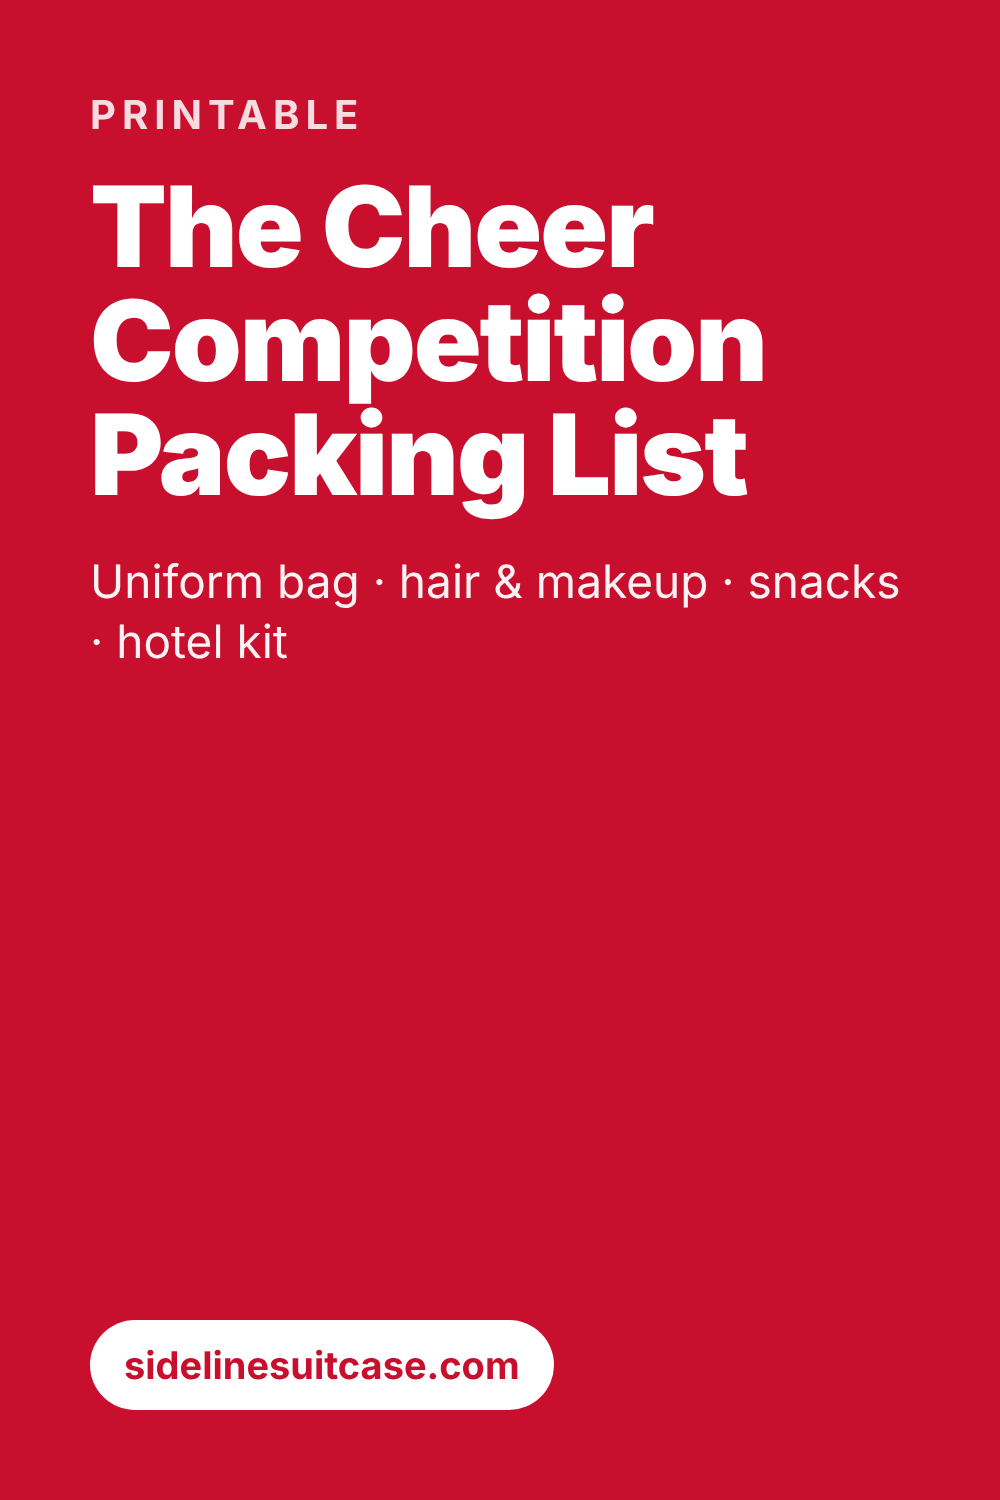
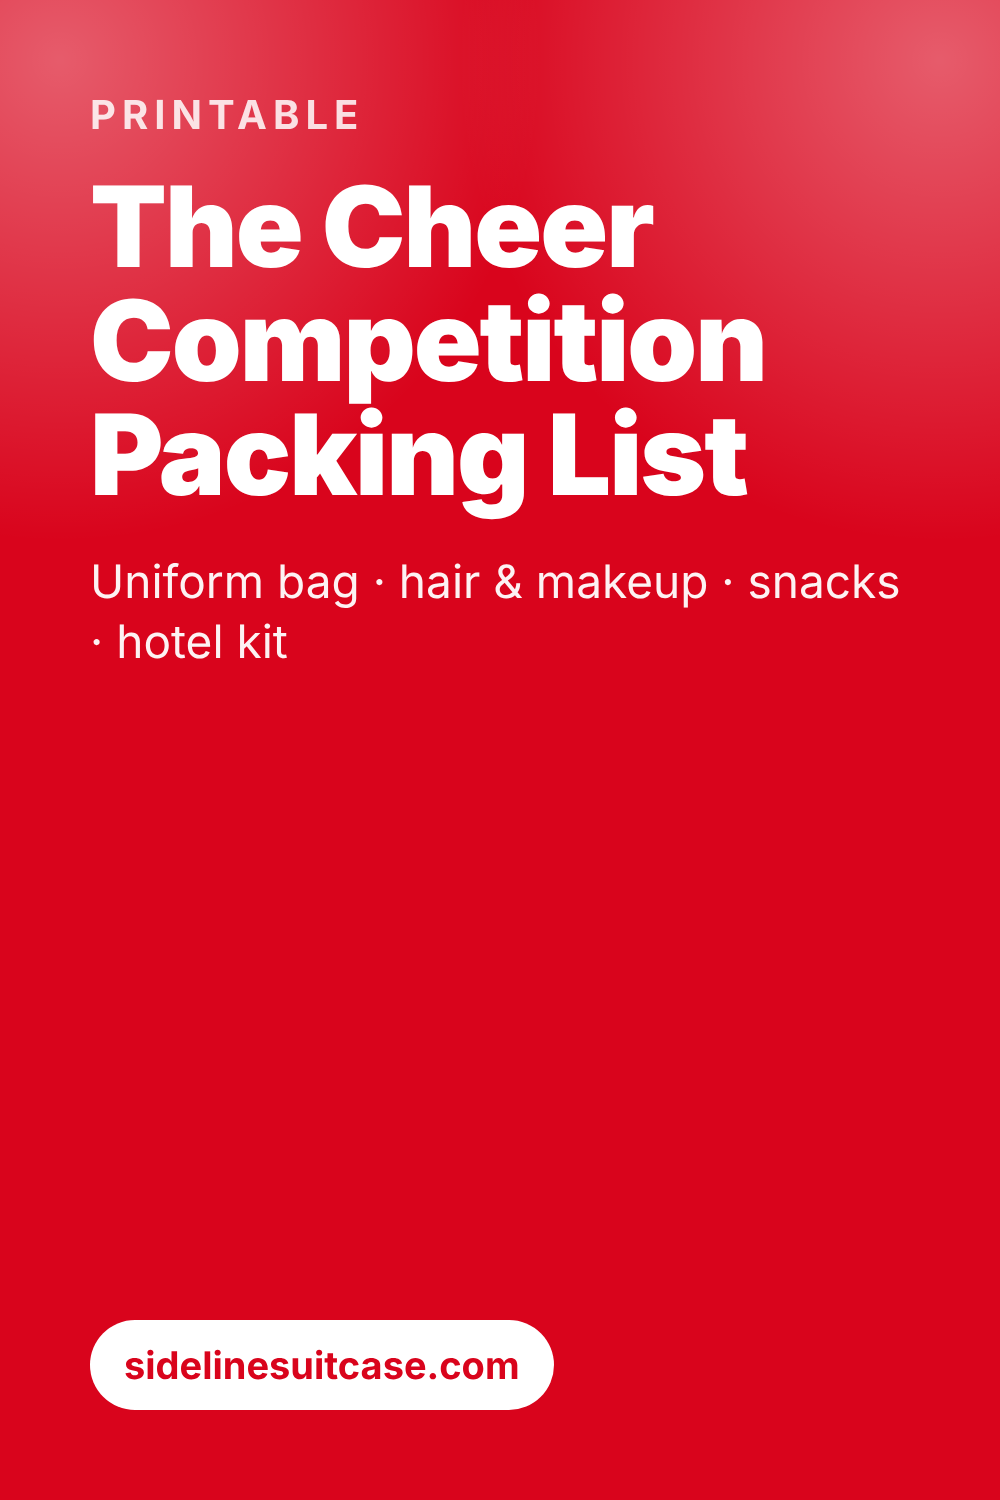
Match site and pin colors to the team uniforms
Uniform red, navy-tinted black, stage-backdrop slate with spotlight glow,
and a crown-gold accent, sampled from the family's cheer photos.

Claude-Session: https://claude.ai/code/session_016pLpUcMFdfAf8sP4RFqGKT

Changed region(s): [[0.651, 0.0, 1.0, 0.2453], [0.0, 0.0, 0.341, 0.2453]]

diff --git a/sideline-suitcase/pins/make-pins.js b/sideline-suitcase/pins/make-pins.js
@@ -2,21 +2,21 @@
 const { chromium } = require('playwright');
 const path = require('path');
 const pins = [
-  { file: 'packing-list', kicker: 'PRINTABLE', title: 'The Cheer Competition Packing List', sub: 'Uniform bag · hair & makeup · snacks · hotel kit', bg: '#c8102e' },
-  { file: 'stay-to-play', kicker: 'SPORTS MOM 101', title: 'Stay-to-Play Hotels, Explained', sub: 'How to book the team block and still earn points', bg: '#111111' },
-  { file: 'free-nights', kicker: 'TRAVEL HACK', title: 'Turn Competition Season Into Free Hotel Nights', sub: 'A no-spreadsheet points system for busy moms', bg: '#c8102e' },
-  { file: 'survival-guide', kicker: 'COMP WEEKEND', title: 'Competition Weekend Survival Guide', sub: 'Timing, parking, food & happy siblings', bg: '#111111' },
-  { file: 'hotel-hacks', kicker: 'SAVE MONEY', title: '5 Hotel Hacks Every Cheer Mom Needs', sub: 'Fridge, free breakfast, steamer, power strip & points', bg: '#c8102e' },
+  { file: 'packing-list', kicker: 'PRINTABLE', title: 'The Cheer Competition Packing List', sub: 'Uniform bag · hair & makeup · snacks · hotel kit', bg: '#d9041c' },
+  { file: 'stay-to-play', kicker: 'SPORTS MOM 101', title: 'Stay-to-Play Hotels, Explained', sub: 'How to book the team block and still earn points', bg: '#0a141a' },
+  { file: 'free-nights', kicker: 'TRAVEL HACK', title: 'Turn Competition Season Into Free Hotel Nights', sub: 'A no-spreadsheet points system for busy moms', bg: '#d9041c' },
+  { file: 'survival-guide', kicker: 'COMP WEEKEND', title: 'Competition Weekend Survival Guide', sub: 'Timing, parking, food & happy siblings', bg: '#0a141a' },
+  { file: 'hotel-hacks', kicker: 'SAVE MONEY', title: '5 Hotel Hacks Every Cheer Mom Needs', sub: 'Fridge, free breakfast, steamer, power strip & points', bg: '#d9041c' },
 ];
 (async () => {
   const browser = await chromium.launch();
   const page = await browser.newPage({ viewport: { width: 1000, height: 1500 } });
   for (const p of pins) {
-    await page.setContent(`<html><body style="margin:0;width:1000px;height:1500px;background:${p.bg};font-family:system-ui,sans-serif;display:flex;flex-direction:column;justify-content:center;padding:90px;box-sizing:border-box;color:#fff">
-      <div style="font-size:40px;letter-spacing:6px;font-weight:700;color:${p.bg === "#111111" ? "#ff3b52" : "rgba(255,255,255,.85)"}">${p.kicker}</div>
+    await page.setContent(`<html><body style="margin:0;width:1000px;height:1500px;background:radial-gradient(circle at 6% 4%,rgba(255,255,255,.35),transparent 28%),radial-gradient(circle at 94% 4%,rgba(255,255,255,.35),transparent 28%),${p.bg === '#0a141a' ? 'linear-gradient(#3a3d4b,#0a141a 55%)' : p.bg};font-family:system-ui,sans-serif;display:flex;flex-direction:column;justify-content:center;padding:90px;box-sizing:border-box;color:#fff">
+      <div style="font-size:40px;letter-spacing:6px;font-weight:700;color:${p.bg === "#0a141a" ? "#d4a73a" : "rgba(255,255,255,.85)"}">${p.kicker}</div>
       <div style="font-size:112px;line-height:1.02;font-weight:900;margin:30px 0 40px;letter-spacing:-2px">${p.title}</div>
       <div style="font-size:46px;line-height:1.3;opacity:.95">${p.sub}</div>
-      <div style="margin-top:auto;font-size:38px;font-weight:700;background:#fff;color:${p.bg === "#111111" ? "#c8102e" : p.bg};padding:22px 34px;border-radius:999px;align-self:flex-start">sidelinesuitcase.com</div>
+      <div style="margin-top:auto;font-size:38px;font-weight:700;background:#fff;color:${p.bg === "#0a141a" ? "#d9041c" : p.bg};padding:22px 34px;border-radius:999px;align-self:flex-start">sidelinesuitcase.com</div>
     </body></html>`);
     await page.screenshot({ path: path.join(__dirname, 'png', p.file + '.png') });
   }

diff --git a/sideline-suitcase/assets/style.css b/sideline-suitcase/assets/style.css
@@ -1,11 +1,13 @@
 :root{
-  --bg:#ffffff; --surface:#ffffff; --ink:#111111; --muted:#555555;
-  --brand:#c8102e; --brand-ink:#ffffff; --accent:#b00d27; --soft:#fbe9ec; --line:#e5e5e5;
+  /* Pulled from the team uniforms: uniform red, near-black with a navy tint, stage-backdrop slate, crown gold */
+  --bg:#ffffff; --surface:#ffffff; --ink:#0a141a; --muted:#4a4d5a;
+  --brand:#d9041c; --brand-ink:#ffffff; --accent:#c4031a; --soft:#fdecee; --line:#e3e4e8;
+  --night:#0a141a; --slate:#3a3d4b; --gold:#d4a73a;
   --radius:14px; --max:760px;
 }
 @media (prefers-color-scheme: dark){
-  :root{ --bg:#0d0d0d; --surface:#1a1a1a; --ink:#ffffff; --muted:#bdbdbd;
-    --brand:#e8243f; --brand-ink:#ffffff; --accent:#ff5c6f; --soft:#2a1216; --line:#333333; }
+  :root{ --bg:#0a141a; --surface:#151e25; --ink:#ffffff; --muted:#b8bcc8;
+    --brand:#f40724; --brand-ink:#ffffff; --accent:#ff4d61; --soft:#2a1018; --line:#2c3540; }
 }
 *{box-sizing:border-box}
 html{-webkit-text-size-adjust:100%}
@@ -13,10 +15,11 @@ body{margin:0;background:var(--bg);color:var(--ink);font:17px/1.65 system-ui,-ap
 a{color:var(--accent)}
 img{max-width:100%;height:auto}
 .wrap{max-width:var(--max);margin:0 auto;padding:0 16px}
-header.site{background:#111111;border-bottom:4px solid var(--brand)}
+header.site{background:radial-gradient(circle at 8% 0,rgba(255,255,255,.14),transparent 40%),radial-gradient(circle at 92% 0,rgba(255,255,255,.14),transparent 40%),linear-gradient(var(--slate),var(--night));border-bottom:4px solid var(--brand)}
 header.site .wrap{display:flex;flex-wrap:wrap;gap:8px 20px;align-items:center;justify-content:space-between;padding-top:14px;padding-bottom:14px}
 .logo{font-weight:800;font-size:1.25rem;color:#ffffff;text-decoration:none;letter-spacing:-.01em}
-.logo span{color:#ff3b52}
+.logo span{color:#ff1a35}
+.logo::before{content:"★ ";color:var(--gold)}
 nav a{margin-right:14px;color:#d6d6d6;text-decoration:none;font-size:.95rem}
 nav a:hover{color:#ffffff;text-decoration:underline}
 .disclosure-bar{background:var(--soft);font-size:.85rem;color:var(--muted);padding:8px 0}
@@ -38,10 +41,12 @@ h3{font-size:1.1rem;margin-top:1.5em}
 ul.check{list-style:none;padding-left:0}
 ul.check li{padding-left:1.8em;position:relative;margin:.35em 0}
 ul.check li::before{content:"☐";position:absolute;left:0;color:var(--brand)}
+.tldr{border-image:linear-gradient(var(--brand),var(--gold)) 1}
 details{border:1px solid var(--line);border-radius:10px;padding:10px 14px;margin:10px 0;background:var(--surface)}
 summary{font-weight:700;cursor:pointer}
-footer.site{border-top:1px solid var(--line);padding:24px 0;font-size:.85rem;color:var(--muted)}
+footer.site{border-top:4px solid var(--brand);background:var(--night);color:#b8bcc8;padding:24px 0;font-size:.85rem;color:var(--muted)}
 .byline{color:var(--muted);font-size:.9rem}
 table{border-collapse:collapse;width:100%;font-size:.95rem}
 th,td{border-bottom:1px solid var(--line);padding:8px;text-align:left;vertical-align:top}
 @media print{header.site nav,.disclosure-bar,.cta,footer.site{display:none}}
+footer.site a{color:#ff6b7d}
